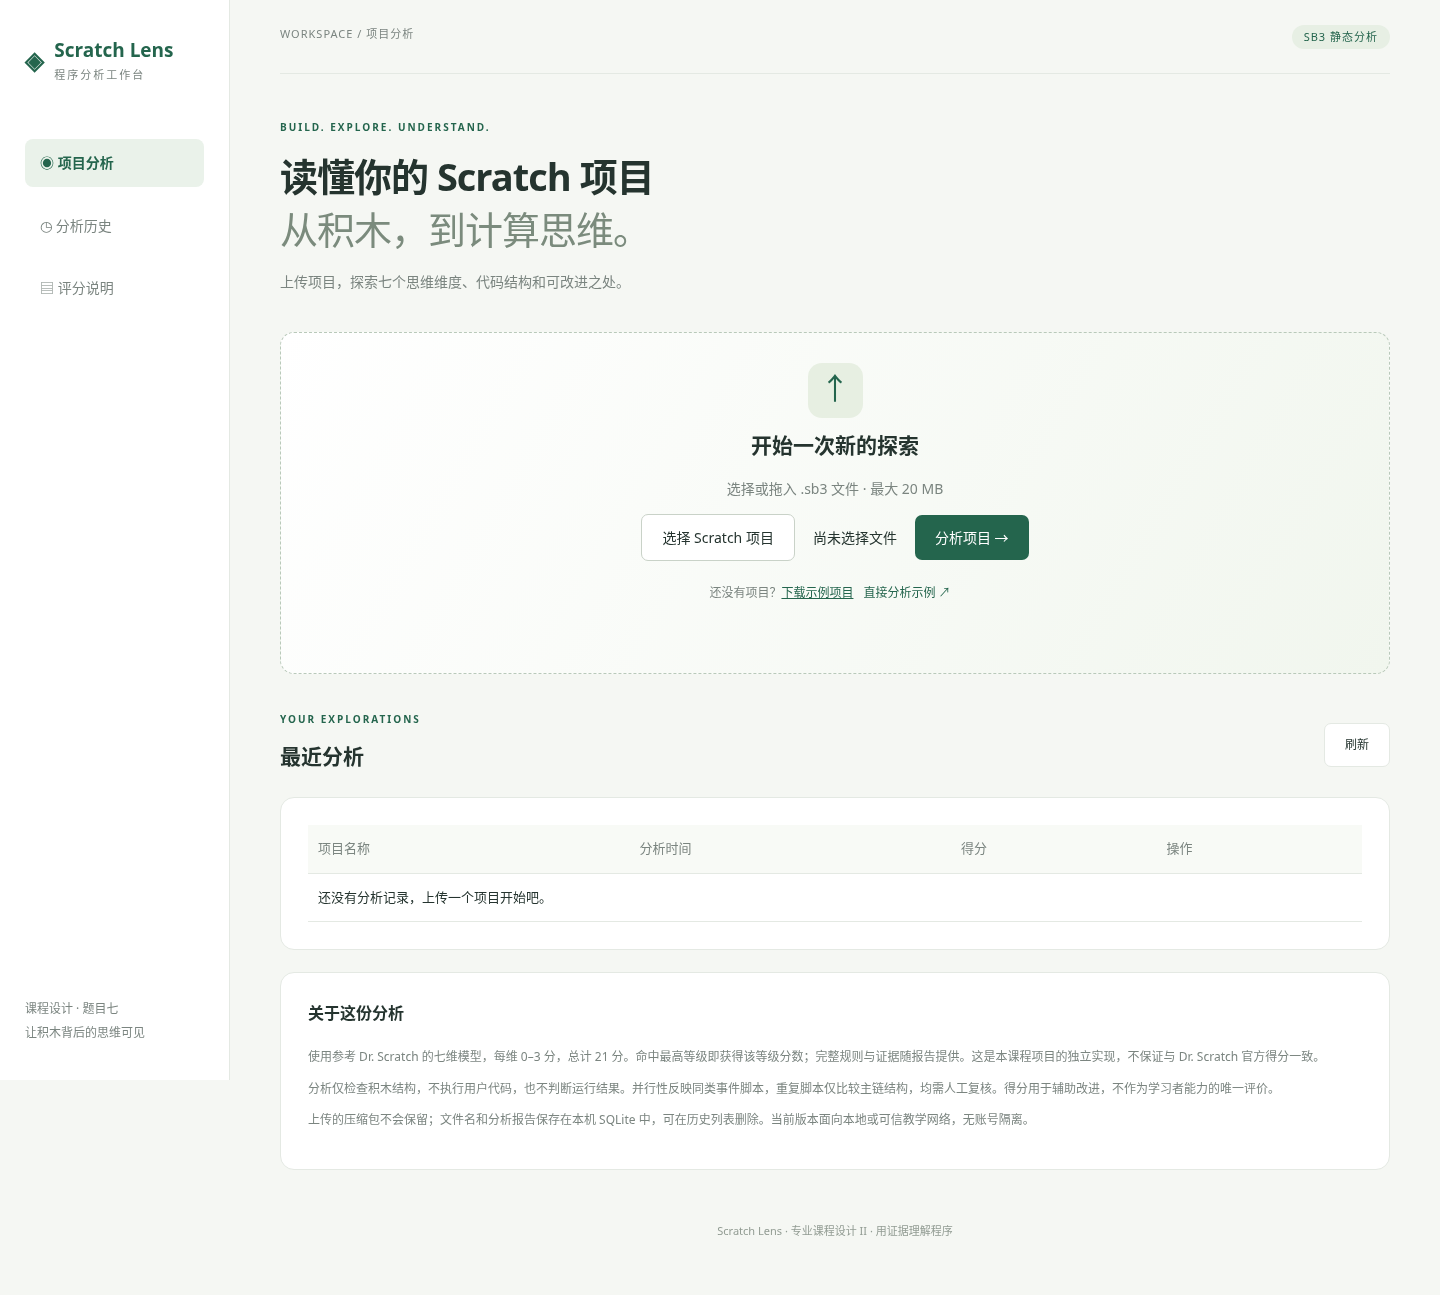
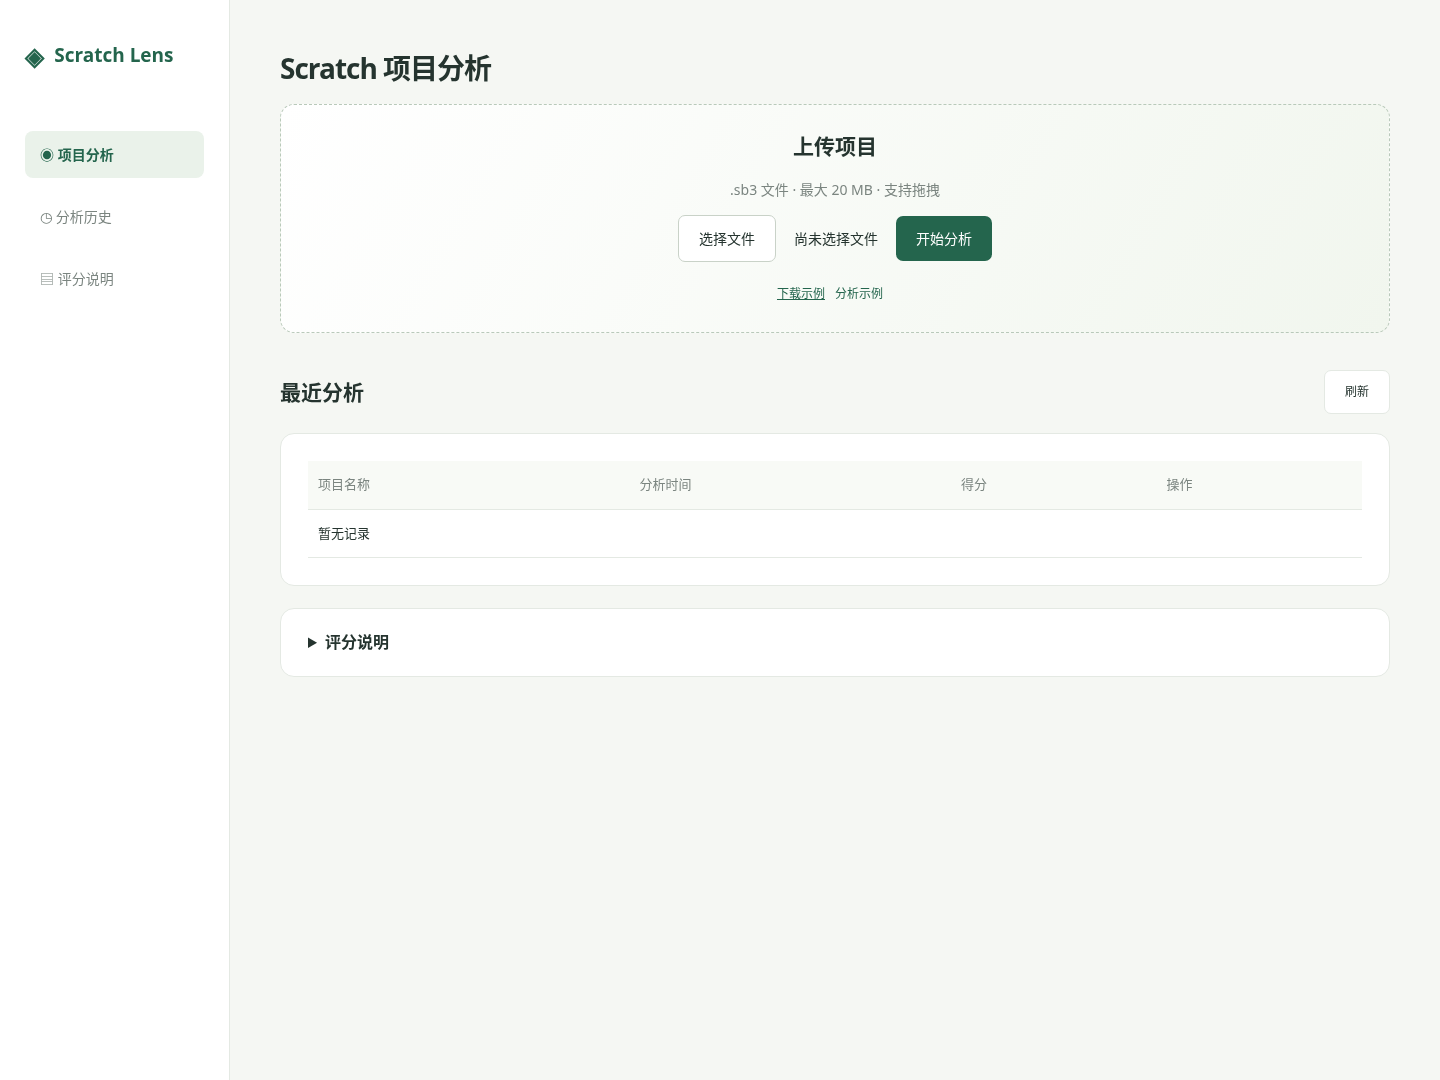
Simplify analysis interface while preserving features

diff --git a/public/app.js b/public/app.js
@@ -3,16 +3,17 @@ const $=s=>document.querySelector(s);let current=null;
 function el(tag,text,className){const e=document.createElement(tag);if(text!==undefined)e.textContent=text;if(className)e.className=className;return e;}
 async function api(url,options){const r=await fetch(url,options);const data=await r.json();if(!r.ok)throw new Error(data.error||'请求失败');return data;}
 function status(text,error=false){$('#status').textContent=text;$('#status').classList.toggle('error',error);}
-function render(report){current=report;$('#report').hidden=false;$('#report-title').textContent=report.filename;$('#score').textContent=report.score;$('#note').textContent=report.note;
+function render(report){current=report;$('#report').hidden=false;$('#report-title').textContent=report.filename;$('#score').textContent=report.score;
  $('#dimensions').replaceChildren();$('#evidence').replaceChildren();
  for(const d of report.dimensions){const row=el('div',undefined,'dimension'),track=el('div',undefined,'track'),fill=el('div',undefined,'fill');fill.style.width=(d.score/3*100)+'%';track.append(fill);row.append(el('span',d.name),track,el('span',d.score+'/3'));$('#dimensions').append(row);const details=el('details');details.append(el('summary',`${d.name} · ${d.score}/3`));const ul=el('ul');for(const l of d.levels)ul.append(el('li',`${l.matched?'✓':'○'} ${l.level} 分：${l.rule}`));details.append(ul);for(const e of d.evidence)details.append(el('p',`${e.target} · ${e.opcode} · ID: ${e.blockId}`));if(!d.evidence.length)details.append(el('p','此维度由脚本数量或结构推导，或未命中相关积木。'));$('#evidence').append(details);}
  $('#metrics').replaceChildren();for(const [key,label]of [['sprites','角色数量'],['blocks','有效积木'],['scripts','顶层脚本'],['variables','变量'],['lists','列表'],['customBlocks','自定义积木'],['emptyScripts','空事件脚本'],['duplicateScripts','疑似重复脚本']]){const c=el('div',undefined,'metric');c.append(el('span',label),el('strong',report.metrics[key]));$('#metrics').append(c);}
  $('#targets').replaceChildren();for(const t of report.targets){const tr=el('tr');for(const value of [t.name+(t.isStage?'（舞台）':''),t.blocks,t.scripts,t.variables,t.lists])tr.append(el('td',value));$('#targets').append(tr);}
- for(const key of ['suggestions','warnings']){$('#'+key).replaceChildren(...report[key].map(x=>el('li',x)));}if(!report.suggestions.length)$('#suggestions').append(el('li','已命中全部最高等级规则。请继续通过实际运行验证作品。'));
+ for(const key of ['suggestions','warnings']){$('#'+key).replaceChildren(...report[key].map(x=>el('li',x)));}if(!report.suggestions.length)$('#suggestions').append(el('li','暂无改进建议。'));
 }
-async function history(){try{const rows=await api('/api/history');$('#history-body').replaceChildren();if(!rows.length){const td=el('td','还没有分析记录，上传一个项目开始吧。');td.colSpan=4;const tr=el('tr');tr.append(td);$('#history-body').append(tr);}for(const r of rows){const tr=el('tr');for(const value of [r.filename,new Date(r.created_at).toLocaleString('zh-CN'),r.score+'/21'])tr.append(el('td',value));const td=el('td'),view=el('button','查看'),del=el('button','删除','secondary');view.onclick=async()=>{try{render(await api('/api/history/'+r.id));$('#report').scrollIntoView({behavior:'smooth'});}catch(e){status(e.message,true);}};del.onclick=async()=>{if(!confirm('删除这条分析记录？'))return;try{await api('/api/history/'+r.id,{method:'DELETE'});await history();if(current?.id===r.id){current=null;$('#report').hidden=true;}}catch(e){status(e.message,true);}};td.append(view,del);tr.append(td);$('#history-body').append(tr);}}catch(e){status(e.message,true);}}
-async function analyze(file){if(!file)return status('请选择一个 .sb3 文件',true);if(!file.name.toLowerCase().endsWith('.sb3')||file.size>20*1024*1024)return status('仅支持最大 20 MB 的 .sb3 文件',true);$('#submit').disabled=true;$('#demo').disabled=true;status('正在解读积木结构…');try{const body=new FormData();body.append('file',file);render(await api('/api/analyze',{method:'POST',body}));status('分析完成，报告已保存。');await history();$('#report').scrollIntoView({behavior:'smooth'});}catch(e){status(e.message,true);}finally{$('#submit').disabled=false;$('#demo').disabled=false;}}
+async function history(){try{const rows=await api('/api/history');$('#history-body').replaceChildren();if(!rows.length){const td=el('td','暂无记录');td.colSpan=4;const tr=el('tr');tr.append(td);$('#history-body').append(tr);}for(const r of rows){const tr=el('tr');for(const value of [r.filename,new Date(r.created_at).toLocaleString('zh-CN'),r.score+'/21'])tr.append(el('td',value));const td=el('td'),view=el('button','查看'),del=el('button','删除','secondary');view.onclick=async()=>{try{render(await api('/api/history/'+r.id));$('#report').scrollIntoView({behavior:'smooth'});}catch(e){status(e.message,true);}};del.onclick=async()=>{if(!confirm('删除这条分析记录？'))return;try{await api('/api/history/'+r.id,{method:'DELETE'});await history();if(current?.id===r.id){current=null;$('#report').hidden=true;}}catch(e){status(e.message,true);}};td.append(view,del);tr.append(td);$('#history-body').append(tr);}}catch(e){status(e.message,true);}}
+async function analyze(file){if(!file)return status('请选择一个 .sb3 文件',true);if(!file.name.toLowerCase().endsWith('.sb3')||file.size>20*1024*1024)return status('仅支持最大 20 MB 的 .sb3 文件',true);$('#submit').disabled=true;$('#demo').disabled=true;status('正在分析…');try{const body=new FormData();body.append('file',file);render(await api('/api/analyze',{method:'POST',body}));status('分析完成');await history();$('#report').scrollIntoView({behavior:'smooth'});}catch(e){status(e.message,true);}finally{$('#submit').disabled=false;$('#demo').disabled=false;}}
 $('#file').onchange=()=>{$('#filename').textContent=$('#file').files[0]?.name||'尚未选择文件';};$('#upload-form').onsubmit=e=>{e.preventDefault();analyze($('#file').files[0]);};
 $('#upload').ondragover=e=>{e.preventDefault();};$('#upload').ondrop=e=>{e.preventDefault();analyze(e.dataTransfer.files[0]);};
 $('#demo').onclick=async()=>{try{const r=await fetch('/api/example');if(!r.ok)throw new Error('示例下载失败');await analyze(new File([await r.blob()],'demo.sb3',{type:'application/zip'}));}catch(e){status(e.message,true);}};
+document.querySelector('nav a[href="#rules"]').addEventListener('click',()=>{$('#rules').open=true;});
 $('#refresh').onclick=history;$('#export').onclick=()=>{if(!current)return;const url=URL.createObjectURL(new Blob([JSON.stringify(current,null,2)],{type:'application/json'})),a=el('a');a.href=url;a.download='scratch-report-'+current.id+'.json';a.click();setTimeout(()=>URL.revokeObjectURL(url),1000);};history();

diff --git a/public/index.html b/public/index.html
@@ -1,3 +1,3 @@
 <!doctype html>
 <html lang="zh-CN"><head><meta charset="utf-8"><meta name="viewport" content="width=device-width,initial-scale=1"><title>Scratch Lens · 程序分析系统</title><link rel="stylesheet" href="/style.css"><script src="/app.js" defer></script></head>
-<body><aside><a class="brand" href="/">◈ <span>Scratch Lens<small>程序分析工作台</small></span></a><nav><a href="#upload">◉ 项目分析</a><a href="#history">◷ 分析历史</a><a href="#rules">▤ 评分说明</a></nav><div class="side-note">课程设计 · 题目七<br>让积木背后的思维可见</div></aside><main><header><span>WORKSPACE / 项目分析</span><span class="badge">SB3 静态分析</span></header><section class="intro"><div class="eyebrow">BUILD. EXPLORE. UNDERSTAND.</div><h1>读懂你的 Scratch 项目<span>从积木，到计算思维。</span></h1><p>上传项目，探索七个思维维度、代码结构和可改进之处。</p></section><section id="upload" class="upload card"><div class="upload-icon">↑</div><h2>开始一次新的探索</h2><p>选择或拖入 .sb3 文件 · 最大 20 MB</p><form id="upload-form"><label class="file-label" for="file">选择 Scratch 项目</label><input id="file" name="file" type="file" accept=".sb3" required><span id="filename">尚未选择文件</span><button id="submit" type="submit">分析项目 →</button></form><div class="example">还没有项目？<a href="/api/example">下载示例项目</a><button id="demo" class="link" type="button">直接分析示例 ↗</button></div><p id="status" role="status" aria-live="polite"></p></section><section id="report" hidden><div class="section-heading"><div><span class="eyebrow">ANALYSIS REPORT</span><h2 id="report-title">分析报告</h2></div><button id="export" class="secondary">导出 JSON ↓</button></div><div class="report-grid"><div class="card score-card"><span>计算思维参考得分</span><div class="score"><strong id="score">0</strong><span>/ 21</span></div><p id="note"></p></div><div class="card dimensions"><h3>七维能力画像</h3><div id="dimensions"></div></div></div><div id="metrics" class="metrics"></div><div class="report-grid"><section class="card"><h3>角色与舞台</h3><div class="table-wrap"><table><thead><tr><th>名称</th><th>积木</th><th>脚本</th><th>变量</th><th>列表</th></tr></thead><tbody id="targets"></tbody></table></div></section><section class="card"><h3>下一步，试试这些</h3><ul id="suggestions"></ul><ul id="warnings"></ul></section></div><section class="card evidence"><h3>评分证据与命中规则</h3><p>点击维度查看等级规则、角色名称和对应积木 ID。</p><div id="evidence"></div></section></section><section id="history"><div class="section-heading"><div><span class="eyebrow">YOUR EXPLORATIONS</span><h2>最近分析</h2></div><button id="refresh" class="secondary">刷新</button></div><div class="card table-wrap"><table><thead><tr><th>项目名称</th><th>分析时间</th><th>得分</th><th>操作</th></tr></thead><tbody id="history-body"></tbody></table></div></section><section id="rules" class="card rules"><h3>关于这份分析</h3><p>使用参考 Dr. Scratch 的七维模型，每维 0–3 分，总计 21 分。命中最高等级即获得该等级分数；完整规则与证据随报告提供。这是本课程项目的独立实现，不保证与 Dr. Scratch 官方得分一致。</p><p>分析仅检查积木结构，不执行用户代码，也不判断运行结果。并行性反映同类事件脚本，重复脚本仅比较主链结构，均需人工复核。得分用于辅助改进，不作为学习者能力的唯一评价。</p><p>上传的压缩包不会保留；文件名和分析报告保存在本机 SQLite 中，可在历史列表删除。当前版本面向本地或可信教学网络，无账号隔离。</p></section><footer>Scratch Lens · 专业课程设计 II · 用证据理解程序</footer></main></body></html>
+<body><aside><a class="brand" href="/">◈ <span>Scratch Lens</span></a><nav><a href="#upload">◉ 项目分析</a><a href="#history">◷ 分析历史</a><a href="#rules">▤ 评分说明</a></nav></aside><main><section class="intro"><h1>Scratch 项目分析</h1></section><section id="upload" class="upload card"><h2>上传项目</h2><p>.sb3 文件 · 最大 20 MB · 支持拖拽</p><form id="upload-form"><label class="file-label" for="file">选择文件</label><input id="file" name="file" type="file" accept=".sb3" required><span id="filename">尚未选择文件</span><button id="submit" type="submit">开始分析</button></form><div class="example"><a href="/api/example">下载示例</a><button id="demo" class="link" type="button">分析示例</button></div><p id="status" role="status" aria-live="polite"></p></section><section id="report" hidden><div class="section-heading"><div><h2 id="report-title">分析报告</h2></div><button id="export" class="secondary">导出 JSON</button></div><div class="report-grid"><div class="card score-card"><span>计算思维参考得分</span><div class="score"><strong id="score">0</strong><span>/ 21</span></div></div><div class="card dimensions"><h3>七维评分</h3><div id="dimensions"></div></div></div><div id="metrics" class="metrics"></div><div><section class="card"><h3>角色与舞台</h3><div class="table-wrap"><table><thead><tr><th>名称</th><th>积木</th><th>脚本</th><th>变量</th><th>列表</th></tr></thead><tbody id="targets"></tbody></table></div></section><details class="card suggestions"><summary>查看建议</summary><ul id="suggestions"></ul><ul id="warnings"></ul></details></div><details class="card evidence"><summary>评分规则与证据</summary><div id="evidence"></div></details></section><section id="history"><div class="section-heading"><div><h2>最近分析</h2></div><button id="refresh" class="secondary">刷新</button></div><div class="card table-wrap"><table><thead><tr><th>项目名称</th><th>分析时间</th><th>得分</th><th>操作</th></tr></thead><tbody id="history-body"></tbody></table></div></section><details id="rules" class="card rules"><summary>评分说明</summary><p>参考 Dr. Scratch 七维模型，每维 0–3 分，总分 21。具体规则为本项目独立实现，不代表官方评分。</p><p>仅做静态结构分析，分数不判断运行正确性。上传文件不保留，报告存于本机，可从历史删除；同一实例共享历史。</p></details></main></body></html>

diff --git a/public/style.css b/public/style.css
@@ -1,1 +1,4 @@
 :root{--ink:#25342f;--muted:#7b8580;--green:#24654d;--line:#e4e9e3;--bg:#f5f7f3}*{box-sizing:border-box}html{scroll-behavior:smooth}body{margin:0;background:var(--bg);color:var(--ink);font:14px/1.65 system-ui,-apple-system,"Segoe UI",sans-serif}aside{width:230px;position:fixed;inset:0 auto 0 0;background:#fff;border-right:1px solid var(--line);padding:35px 25px}.brand{display:flex;gap:10px;align-items:center;font-size:25px;color:var(--green);text-decoration:none;font-weight:700}.brand span{font-size:19px}.brand small{display:block;font-size:11px;font-weight:400;color:var(--muted);letter-spacing:2px}nav{display:grid;gap:15px;margin-top:55px}nav a{padding:12px 15px;text-decoration:none;color:var(--muted);border-radius:8px}nav a:first-child{background:#eaf2ea;color:var(--green);font-weight:600}.side-note{position:absolute;bottom:35px;color:var(--muted);font-size:12px;line-height:2}main{max-width:1400px;margin-left:230px;padding:25px 50px}header{display:flex;justify-content:space-between;padding-bottom:24px;border-bottom:1px solid var(--line);color:var(--muted);font-size:11px;letter-spacing:1px}.badge{background:#e7efe4;color:var(--green);padding:3px 12px;border-radius:20px}.intro{padding:45px 0 25px}.eyebrow{font-size:10px;letter-spacing:2px;color:var(--green);font-weight:700}h1{font-size:38px;line-height:1.4;letter-spacing:-1px;margin:14px 0}h1 span{display:block;font-weight:400;color:#7b8b7d}p{color:var(--muted)}h2{font-size:21px;margin:10px 0}h3{font-size:16px;margin:0 0 20px}.card{background:#fff;border:1px solid var(--line);border-radius:14px;padding:27px;margin-bottom:22px}.upload{text-align:center;border:1px dashed #b9c9ba;background:linear-gradient(120deg,#fff,#f1f6ee);padding:30px}.upload-icon{font-size:30px;margin:auto;background:#e7efe2;width:55px;height:55px;border-radius:14px;color:var(--green)}button,.file-label{font:inherit;border:0;border-radius:7px;padding:11px 20px;cursor:pointer;background:var(--green);color:#fff;display:inline-block}button:hover,.file-label:hover{filter:brightness(.92)}button:disabled{opacity:.5;cursor:wait}#file{position:absolute;width:1px;height:1px;overflow:hidden;opacity:0}#file:focus+.file-label,.file-label:has(+input:focus){outline:2px solid var(--green)}.file-label{background:white;color:var(--ink);border:1px solid #c9d2c8}#filename{margin:0 18px;display:inline-block;max-width:280px;overflow-wrap:anywhere}.example{font-size:12px;color:var(--muted);margin-top:18px}a,.link{color:var(--green)}.link{background:transparent;padding:4px 10px;font-size:12px}.secondary{background:#fff;border:1px solid var(--line);color:var(--ink);font-size:12px}.section-heading{display:flex;align-items:center;justify-content:space-between;margin:32px 0 14px}.report-grid{display:grid;grid-template-columns:1fr 1.6fr;gap:22px}.score-card{display:flex;flex-direction:column;justify-content:center}.score{margin:15px 0}.score strong{font-size:75px;font-weight:500;color:var(--green)}.score span{font-size:22px;color:var(--muted);padding-left:10px}#note{font-size:12px}.dimension{display:grid;grid-template-columns:125px 1fr 38px;gap:15px;align-items:center;margin:12px 0}.track{height:7px;background:#edf1e9;border-radius:8px;overflow:hidden}.fill{height:100%;background:#709d76;border-radius:8px}.metrics{display:grid;grid-template-columns:repeat(4,1fr);gap:16px;margin-bottom:22px}.metric{padding:20px;background:#fff;border:1px solid var(--line);border-radius:12px}.metric span{color:var(--muted);font-size:12px}.metric strong{display:block;font-size:29px;font-weight:500;margin-top:6px}table{width:100%;border-collapse:collapse;text-align:left;font-size:13px}th{font-weight:500;color:var(--muted);background:#f8faf6}td,th{padding:13px 10px;border-bottom:1px solid var(--line);overflow-wrap:anywhere}td button{padding:4px 9px;font-size:12px;margin-right:6px}.table-wrap{overflow-x:auto}li{margin-bottom:10px;color:#68776c}ul{padding-left:20px}.rules p,.evidence p{font-size:12px}details{border-top:1px solid var(--line);padding:12px 0}summary{cursor:pointer;font-weight:600}code{font-size:11px;overflow-wrap:anywhere}footer{text-align:center;padding:30px;color:#929c93;font-size:11px}#status.error{color:#b34938}#status{margin-bottom:0;min-height:22px}[hidden]{display:none!important}@media(max-width:1000px){aside{width:185px;padding:25px 15px}main{margin-left:185px;padding:25px}.report-grid{grid-template-columns:1fr}.metrics{grid-template-columns:repeat(2,1fr)}}@media(max-width:650px){aside{position:static;width:auto;padding:15px}nav{display:flex;margin-top:15px;gap:5px}nav a{padding:6px}.side-note{display:none}main{margin:0;padding:18px}h1{font-size:29px}.intro{padding-top:25px}.upload{padding:20px 12px}#filename{display:block;margin:10px}header{font-size:9px}.dimension{grid-template-columns:110px 1fr 30px;gap:8px}.card{padding:20px}.section-heading{gap:10px}}
+
+/* Compact interface */
+.intro{padding:24px 0 16px}.intro h1{font-size:28px;margin:0}.upload{padding:24px}.upload h2{margin-top:0}.score-card .score{margin:8px 0}.card>summary{font-size:16px}.card>summary+ul,.card>summary+div,.card>summary+p{margin-top:18px}details.card{border:1px solid var(--line);padding:20px 27px}#status:empty{display:none}@media(max-width:650px){.intro h1{font-size:24px}details.card{padding:20px}}
